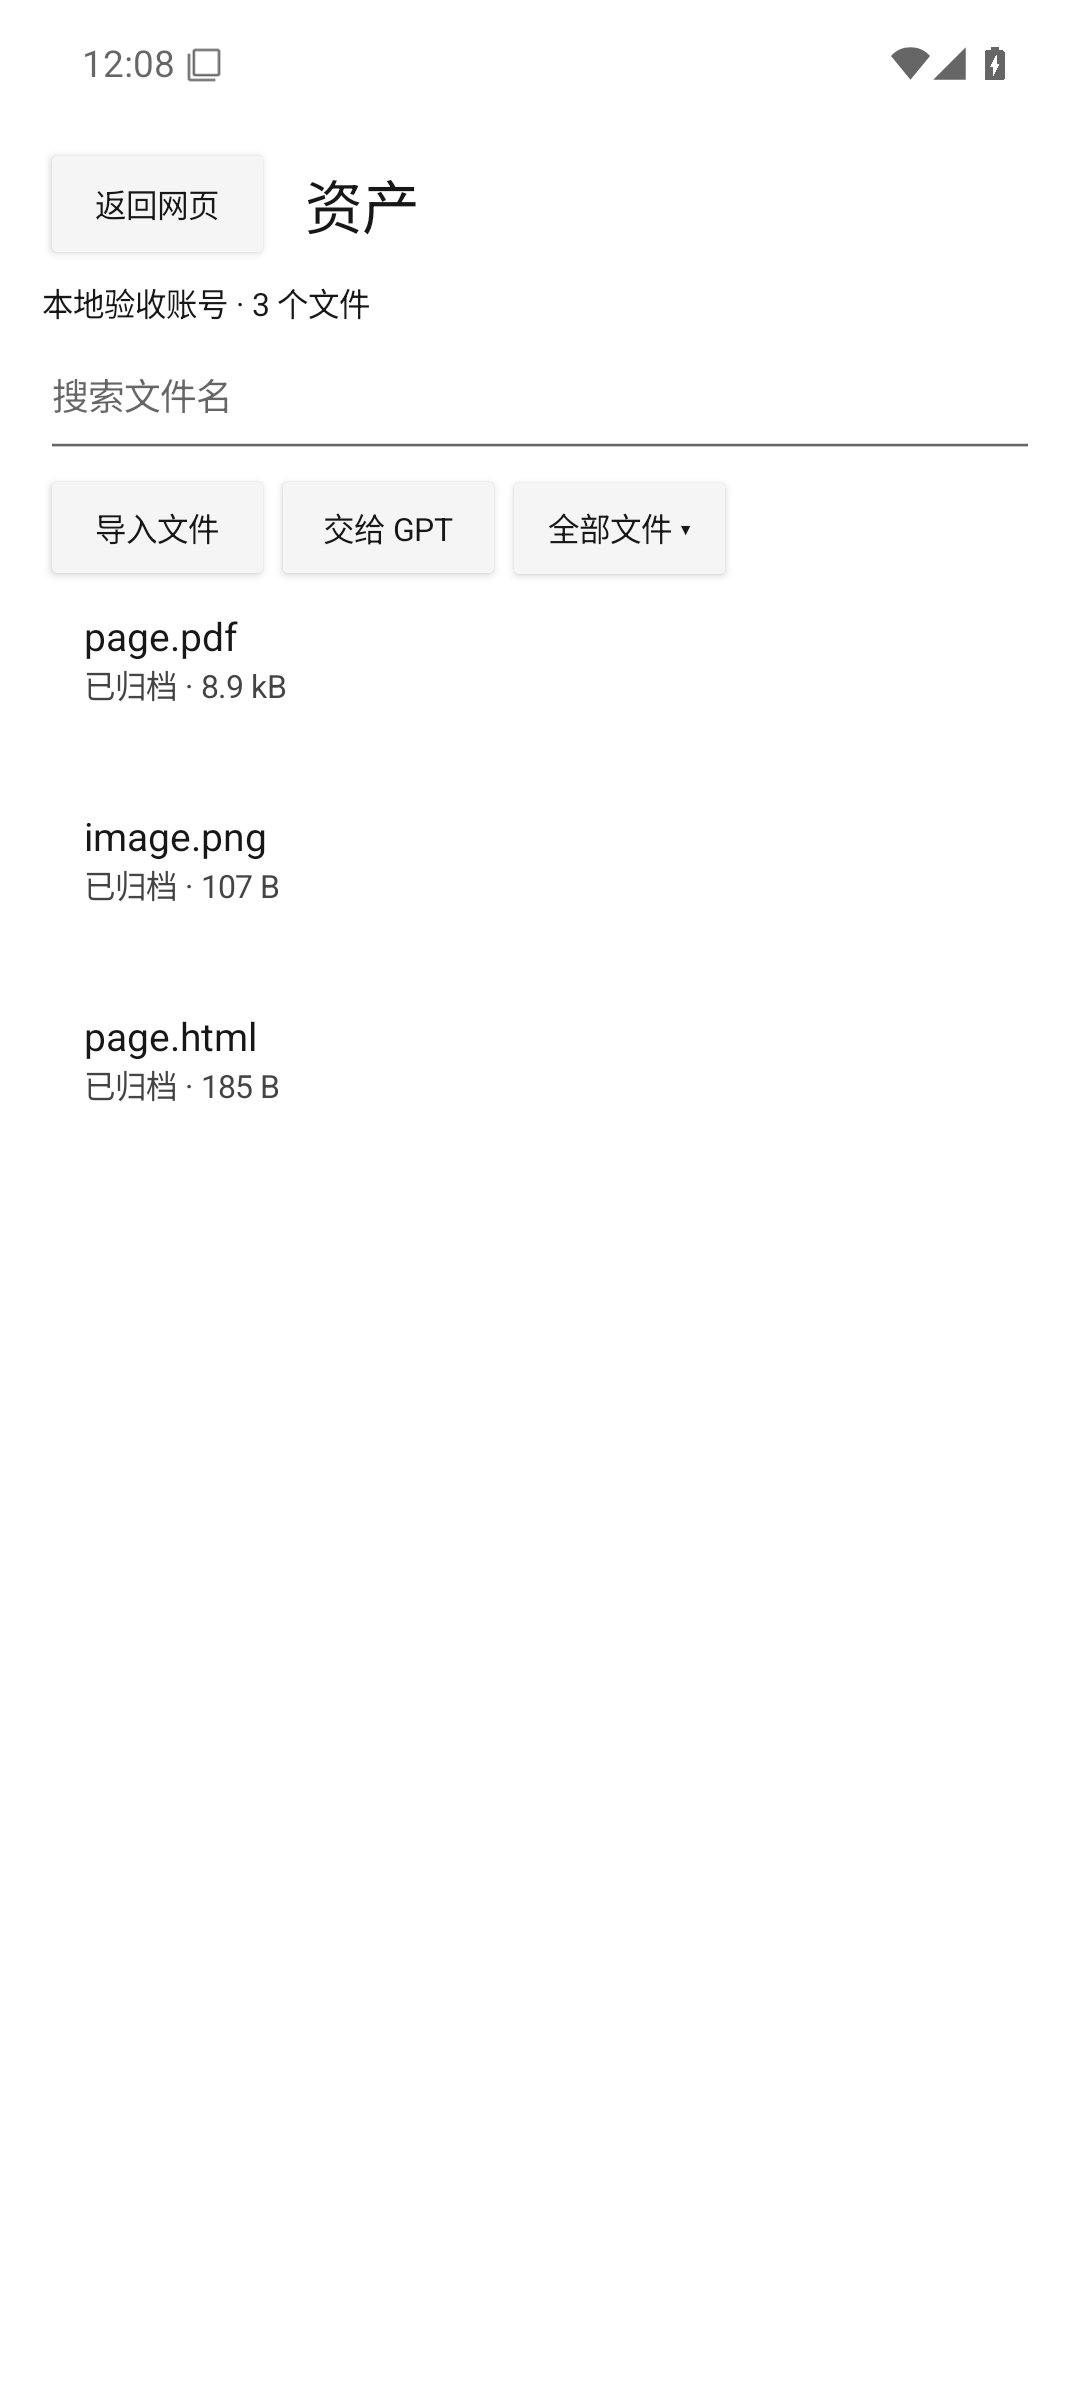
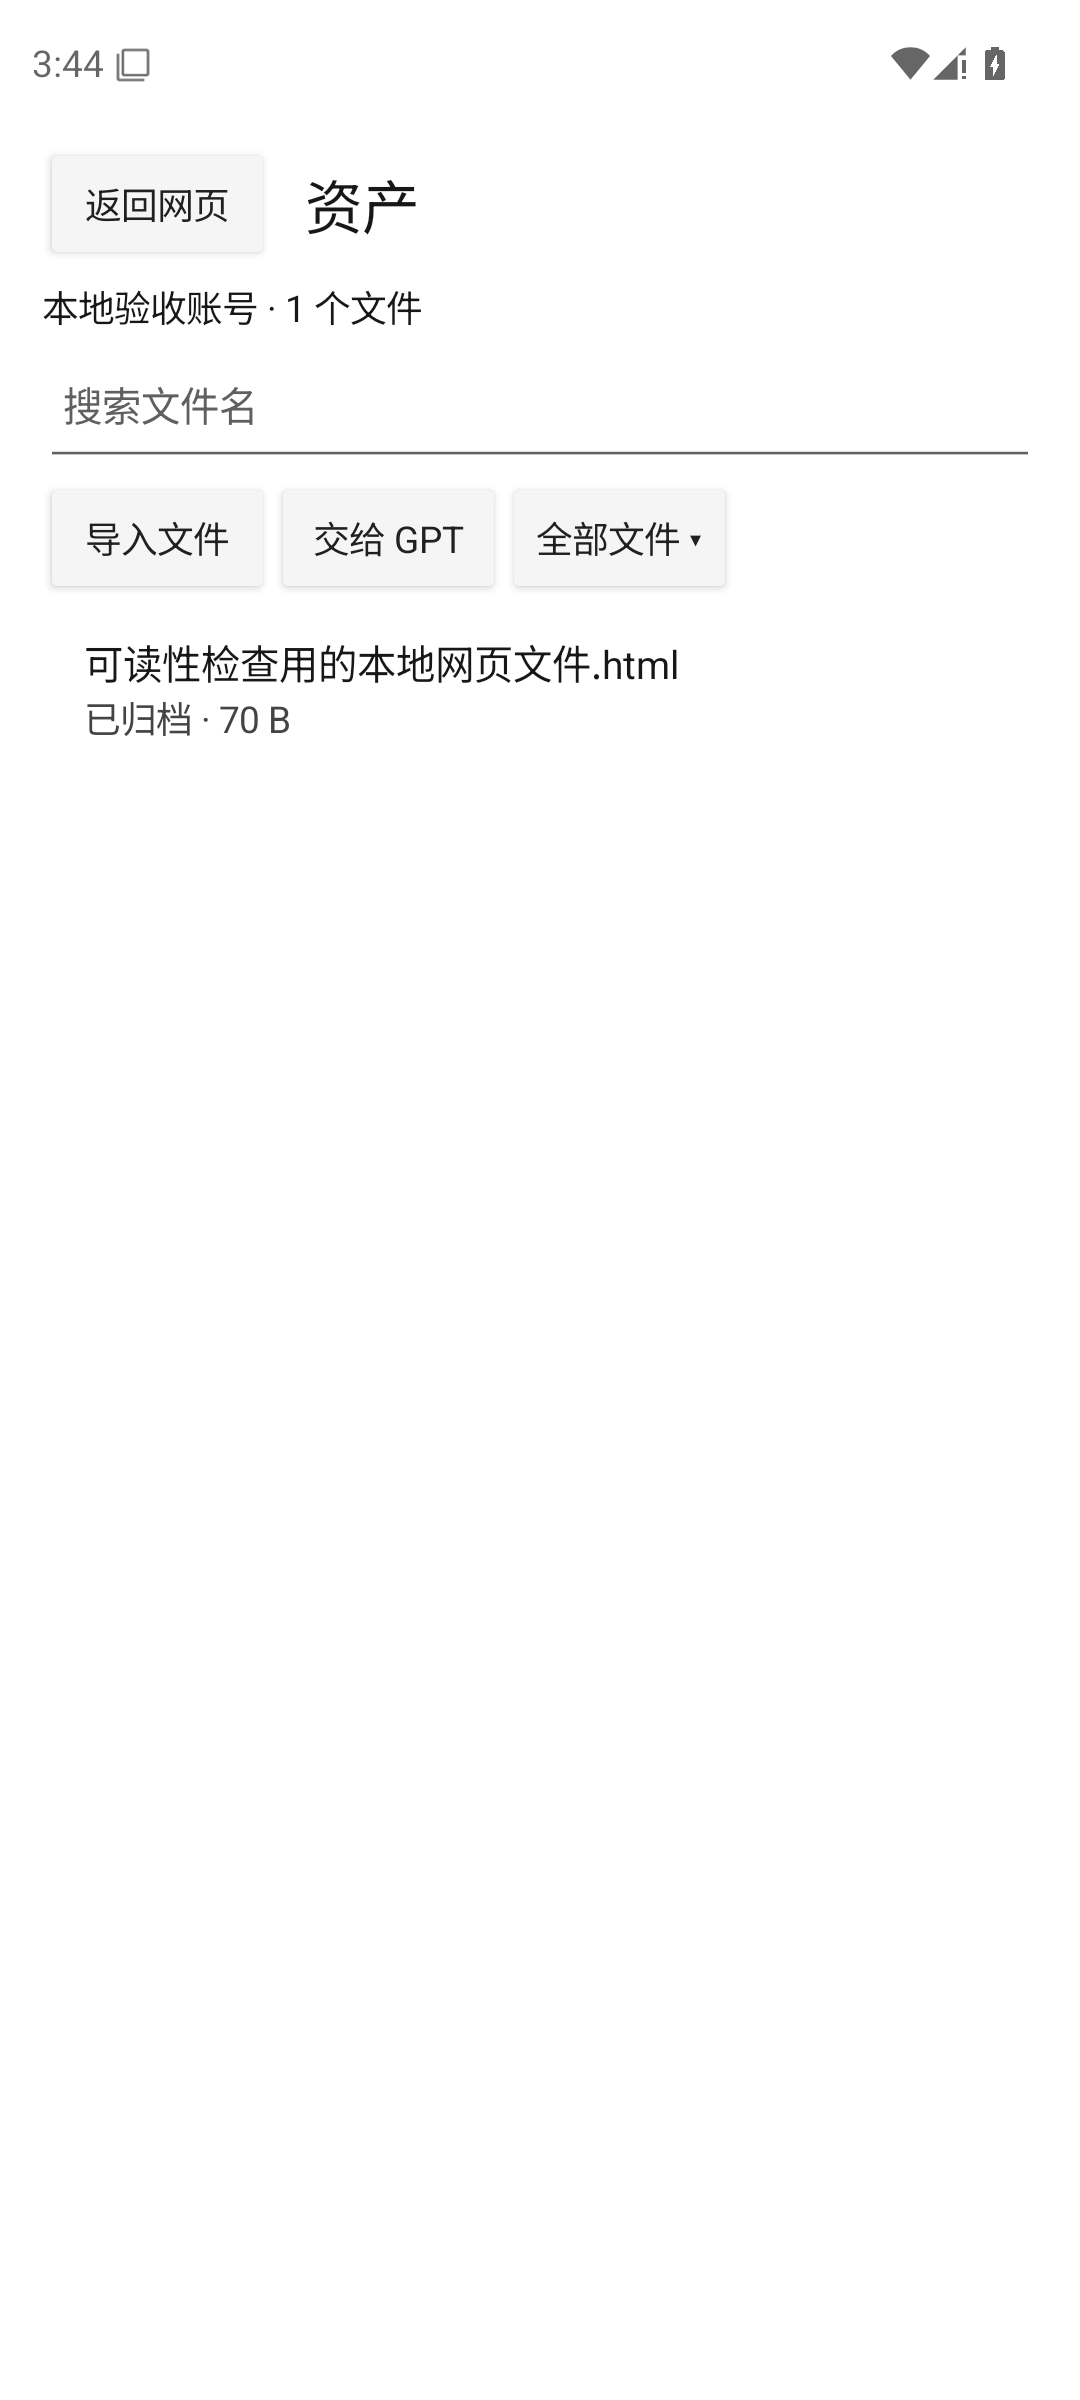
Archive alpha.18 native acceptance and current Android captures

diff --git a/site/app.js b/site/app.js
@@ -26,8 +26,8 @@ const platforms = {
 const androidViews = {
   tabs: platforms.android,
   tablet: {...platforms.android,image:"android-tablet-tabs.png",width:1600,height:2560,caption:"Android alpha.18 · 平板原生对话清单 / 模拟器 · 本地测试账号",alt:"Android alpha.18 平板原生右侧对话清单，含账号筛选、搜索和管理入口；背后网页为测试素材，并非真实 ChatGPT 首页。"},
-  assets: {...platforms.android,image:"android-assets.png",caption:"Android · 资产库实际界面 / 模拟器 · 示例文件",alt:"Android 客户端资产库实际截图：独立账号下的 PDF、PNG 和 HTML 示例文件，带搜索、导入和交给 GPT 入口；采集于 Android 15 模拟器。"},
-  skills: {...platforms.android,image:"android-skills.png",caption:"Android · 120 个 Skill 实际界面 / 模拟器 · 本地示例账号",alt:"Android 客户端能力库实际截图：120 个项目 Skill、原生搜索与任务说明；采集于 Android 15 模拟器，尚无预置智能体。"},
+  assets: {...platforms.android,image:"android-assets.png",caption:"Android alpha.18 · 资产库 / 模拟器 · 本地示例文件",alt:"Android alpha.18 资产库原生截图：独立账号下的本地 HTML 示例文件，带搜索、导入和交给 GPT 入口；采集于 Android 15 模拟器。"},
+  skills: {...platforms.android,image:"android-skills.png",caption:"Android alpha.18 · 120 个 Skill / 模拟器 · 本地示例账号",alt:"Android 客户端能力库实际截图：120 个项目 Skill、原生搜索与任务说明；采集于 Android 15 模拟器，尚无预置智能体。"},
 };
 const tabs = [...document.querySelectorAll("[data-platform]")];
 const image = document.querySelector("#product-image");

diff --git a/MACOS_MIGRATION_PLAN.md b/MACOS_MIGRATION_PLAN.md
@@ -707,3 +707,6 @@
 - 当前迭代改动 MainActivity、TabOverview、RetainedWebView 和共用原生弹层：主页仅账号 / 对话 / 更多；清单作为网页上方临时面板，不卸载网页；去常驻底栏与普通诊断菜单，最近关闭为文字并保留固定 / 重命名 / 排序 / 关闭 / 撤销。移除旧缩略图采样工作，真实恢复快照继续；前景网页保持绘制，面板打开时单独阻断网页输入。账号、资产、Skill、处理记录和本机草稿均保留，搜索框显式 padding 修复大字号裁切。下一步 Actions 字号 / 布局 / 前台复用 / 附件 / 恢复验收；之后签名、校验、发布和线上回读。
 
 - 原生首轮 b3d129d 构建 40207052350 与桌面产物复核 40207565553 通过。字号 40207053566 在首页已缩为两个文字控件后触发旧辅助函数“必须超过 3 个原生文本”假设，实际截图与 XML 证实是测试不适配；改为非空后仍逐项保留 13sp、4.5:1 及垂直裁切断言，并增加更多 / 账号弹层按钮与隐藏诊断验证。附件、标签重建两项在该轮通过。生命周期脚本同步新清单入口，按本次用户口径在默认后台服务关闭时前台维持与测量，不再经普通菜单开启开发诊断；后台返回 / 锁屏 / 休眠仍单独验证恢复，不宣称持续后台执行。
+
+- 新原生界面 b3d129d 的恢复 / 附件 / 20 次前台账号切换 40207569195 成功：手机 / 平板各 4 项、0 失败 / 跳过，原始 XML 已核对，主文档两次初始加载后切换不新加载。字号校验 40207851248 第 2 次执行成功（首次官方 Gradle 下载 HTTP 403，无源码变化），手机 / 平板各 3 项，1.0 / 1.3 / 2.0、13sp / 4.5:1 / 无垂直裁切与弹层操作均过，手动查看真实原生截图。Android 12L / 15 / 16 生命周期 40207854744 三项成功，默认后台服务关闭，8 页 330 秒及锁屏 / 省电 / 网络 / 冷恢复均检验。官网源码 40208278077 渲染通过；四张 Android 图换为本批真实原生夹具，明确非真实 ChatGPT 首页。旧 4187 服务已核对命令 / cwd 后结束。
+- CI 生成的 Android APK 以原证书 SHA-256 8b6eef928fded91f291ad954e20976b2cc6011b55e8cbec0152695fe1f05cf19 签名，版本 3000018 / alpha.18，v3 验证、发布包无调试服务器 / 夹具类。发布草稿已回读同摘要 3d3bda26cf4cd0b699a94a0c6ae17aa86a185cd15c342e8338fbffd32eaf460f，私钥未上传。约 147 MB 临时官方 JRE / 签名工具确认无句柄后清理，Mac / Windows 大包未下载本机。当前开始已授权的五包晋级 / main 同步 / 既有官网及旧更新接口部署，完成前不宣称已上线。
